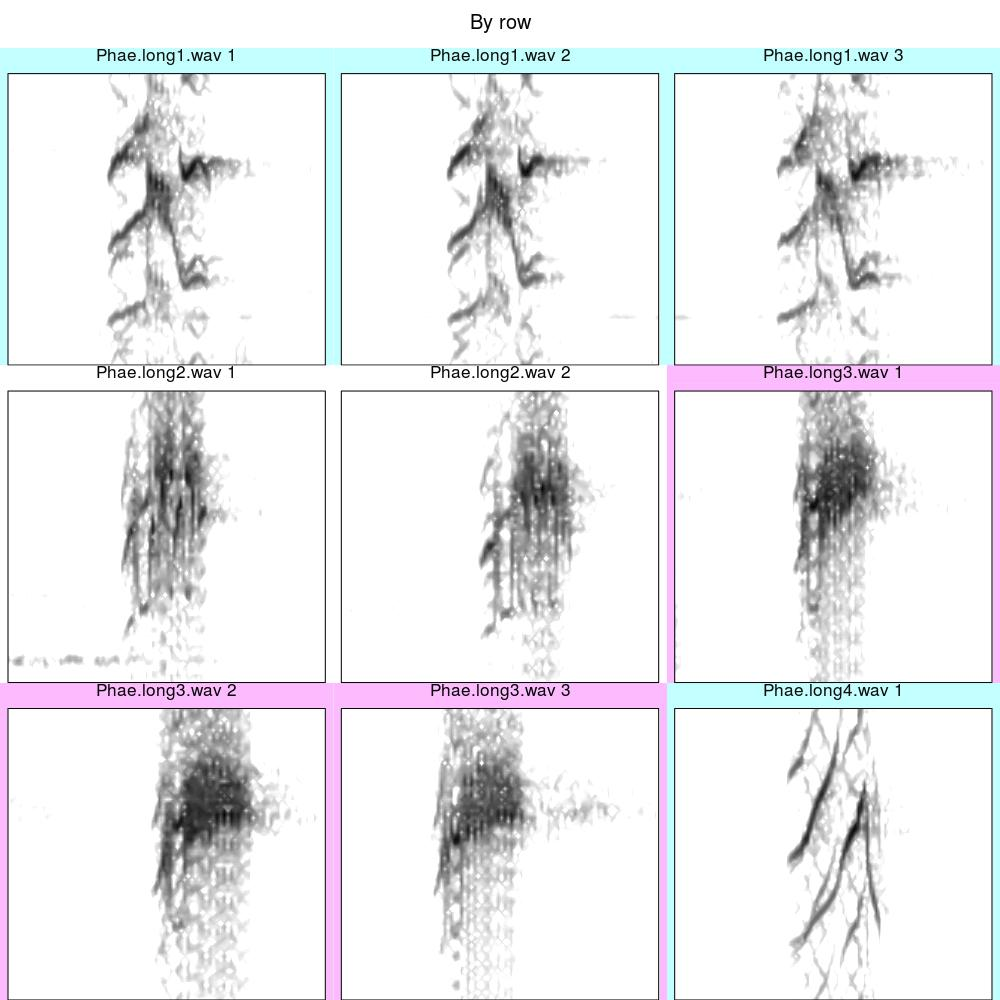
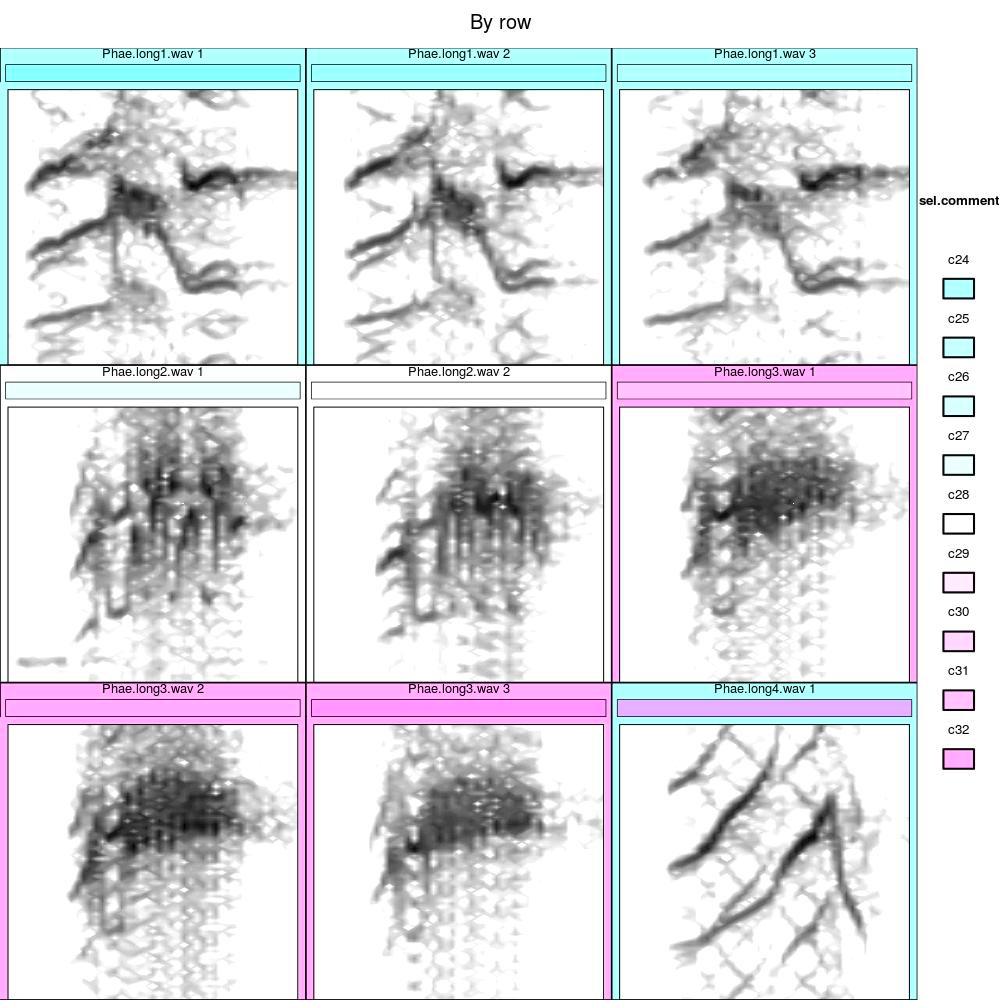
Add new content

diff --git a/_posts/2017-07-31-Updates_on_catalog_function.md b/_posts/2017-07-31-Updates_on_catalog_function.md
@@ -10,8 +10,8 @@ To be able to run the code you need [warbleR]((https://cran.r-project.org/packag
 
 
 {% highlight r %}
-#run it only if devtools isn't installed
-install.packages("devtools")
+# install devtools if is not yet installed
+if(!"devtools" %in% installed.packages()[,"Package"]) install.packages("devtools")
 
 devtools::install_github("maRce10/warbleR")
 {% endhighlight %}
@@ -41,7 +41,7 @@ The following code creates a catalog with 3 columns and 3 rows labeled with the 
 {% highlight r %}
 catalog(X = selec.table[1:9,], flim = c(1, 11), nrow = 3, ncol = 3, 
         height = 10, width = 10, same.time.scale = TRUE, mar = 0.01, 
-        wl = 150, gr = FALSE)
+        wl = 150, gr = FALSE, box = FALSE)
 {% endhighlight %}
 
 ![upd.catalog1](img/Updates_Catalog_p1.png)
@@ -56,7 +56,7 @@ cmc <- function(n) cm.colors(n, alpha = 0.5)
 catalog(X = selec.table[1:9,], flim = c(1, 11), nrow = 3, ncol = 3, 
         height = 10, width = 10, tag.pal = list(cmc), cex = 0.8,
         same.time.scale = TRUE, mar = 0.01, wl = 150, gr = FALSE, 
-        group.tag = "sound.files", spec.mar = 0.4, lab.mar = 0.8)
+        group.tag = "sound.files", spec.mar = 0.4, lab.mar = 0.8, box = FALSE)
 {% endhighlight %}
 
 ![upd.catalog2](img/Updates_Catalog_p2.png)
@@ -72,14 +72,14 @@ catalog(X = selec.table[1:9,], flim = c(1, 10), nrow = 3, ncol = 3,
         height = 10, width = 10, tag.pal = list(cmc), cex = 0.8,
         same.time.scale = TRUE, mar = 0.01, wl = 200, gr = FALSE, 
         group.tag = "sound.files", spec.mar = 0.4, lab.mar = 0.8,
-        max.group.cols = 3)
+        max.group.cols = 3, box = FALSE)
 {% endhighlight %}
 
 ![upd.catalog3](img/Updates_Catalog_p3.png)
 
 ---
 
-### 2) Arguments "title", "by.row", "prop.mar" and "rm.axes" to further customize catalog setup
+### 2) Arguments "title", "by.row", "prop.mar", "box" and "rm.axes" to further customize catalog setup
 
 
 As their names suggest, the arguments "title" and "rm.axes" allow users to add a title at the top of catalogs and remove the *x* and *y* axes. respectively:
@@ -91,7 +91,7 @@ catalog(X = selec.table[1:9,], flim = c(1, 10), nrow = 3, ncol = 3,
         same.time.scale = TRUE, mar = 0.01, wl = 200, gr = FALSE, 
         group.tag = "sound.files", spec.mar = 0.4, lab.mar = 0.8,
         max.group.cols = 3, rm.axes = TRUE, 
-        title = "This one has a title and no axes")
+        title = "This one has a title and no axes", box = FALSE)
 {% endhighlight %}
 
 ![upd.catalog4](img/Updates_Catalog_p4.png)
@@ -108,7 +108,7 @@ catalog(X = selec.table[1:9,], flim = c(1, 10), nrow = 3, ncol = 3,
         same.time.scale = TRUE, mar = 0.01, wl = 200, gr = FALSE, 
         group.tag = "sound.files", spec.mar = 0.4, lab.mar = 0.8,
         max.group.cols = 3, rm.axes = TRUE, title = "By column", 
-        by.row = FALSE)
+        by.row = FALSE, box = FALSE)
 {% endhighlight %}
 
 ![upd.catalog5](img/Updates_Catalog_p5.png)
@@ -122,13 +122,12 @@ catalog(X = selec.table[1:9,], flim = c(1, 10), nrow = 3, ncol = 3,
         same.time.scale = TRUE, mar = 0.01, wl = 200, gr = FALSE, 
         group.tag = "sound.files", spec.mar = 0.4, lab.mar = 0.8,
         max.group.cols = 3, rm.axes = TRUE, title = "By row", 
-        by.row = TRUE)
+        by.row = TRUE, box = FALSE)
 {% endhighlight %}
 
 ![upd.catalog6](img/Updates_Catalog_p6.png)
 
-
-Finally, the argument "prop.mar" allows to add margins at both sides of the signals (when creating the spectrogram) that is proportional to the duration of the signal. For instance a value of 0.1 in a signal of 1s will add 0.1 s at the beginning and end of the signal. This can be particularly useful when the durations of signals varies a lot. In this example a margin equals to a third of signal duration is used:
+"box" allows users to draw a rectangle around the spectrogram and corresponding labels and tags
 
 
 {% highlight r %}
@@ -137,7 +136,22 @@ catalog(X = selec.table[1:9,], flim = c(1, 10), nrow = 3, ncol = 3,
         same.time.scale = TRUE, mar = 0.01, wl = 200, gr = FALSE, 
         group.tag = "sound.files", spec.mar = 0.4, lab.mar = 0.8,
         max.group.cols = 3, rm.axes = TRUE, title = "By row", 
-        by.row = TRUE, prop.mar = 1/3)
+        by.row = TRUE, tags = "sel.comment", box = TRUE)
 {% endhighlight %}
 
-![upd.catalog7](img/Updates_Catalog_p7.png)
+![upd.catalog6](img/Updates_Catalog_p7.png)
+
+
+Finally, the argument "prop.mar" allows to add margins at both sides of the signals (when creating the spectrogram) that is proportional to the duration of the signal. For instance a value of 0.1 in a signal of 1s will add 0.1 s at the beginning and end of the signal. This can be particularly useful when the duration of signals varies a lot. In this example a margin equals to a third of signal duration is used:
+
+
+{% highlight r %}
+catalog(X = selec.table[1:9,], flim = c(1, 10), nrow = 3, ncol = 3, 
+        height = 10, width = 10, tag.pal = list(cmc), cex = 0.8,
+        same.time.scale = TRUE, mar = 0.01, wl = 200, gr = FALSE, 
+        group.tag = "sound.files", spec.mar = 0.4, lab.mar = 0.8,
+        max.group.cols = 3, rm.axes = TRUE, title = "By row", 
+        by.row = TRUE, prop.mar = 1/3, tags = "sel.comment", box = TRUE)
+{% endhighlight %}
+
+![upd.catalog7](img/Updates_Catalog_p8.png)
